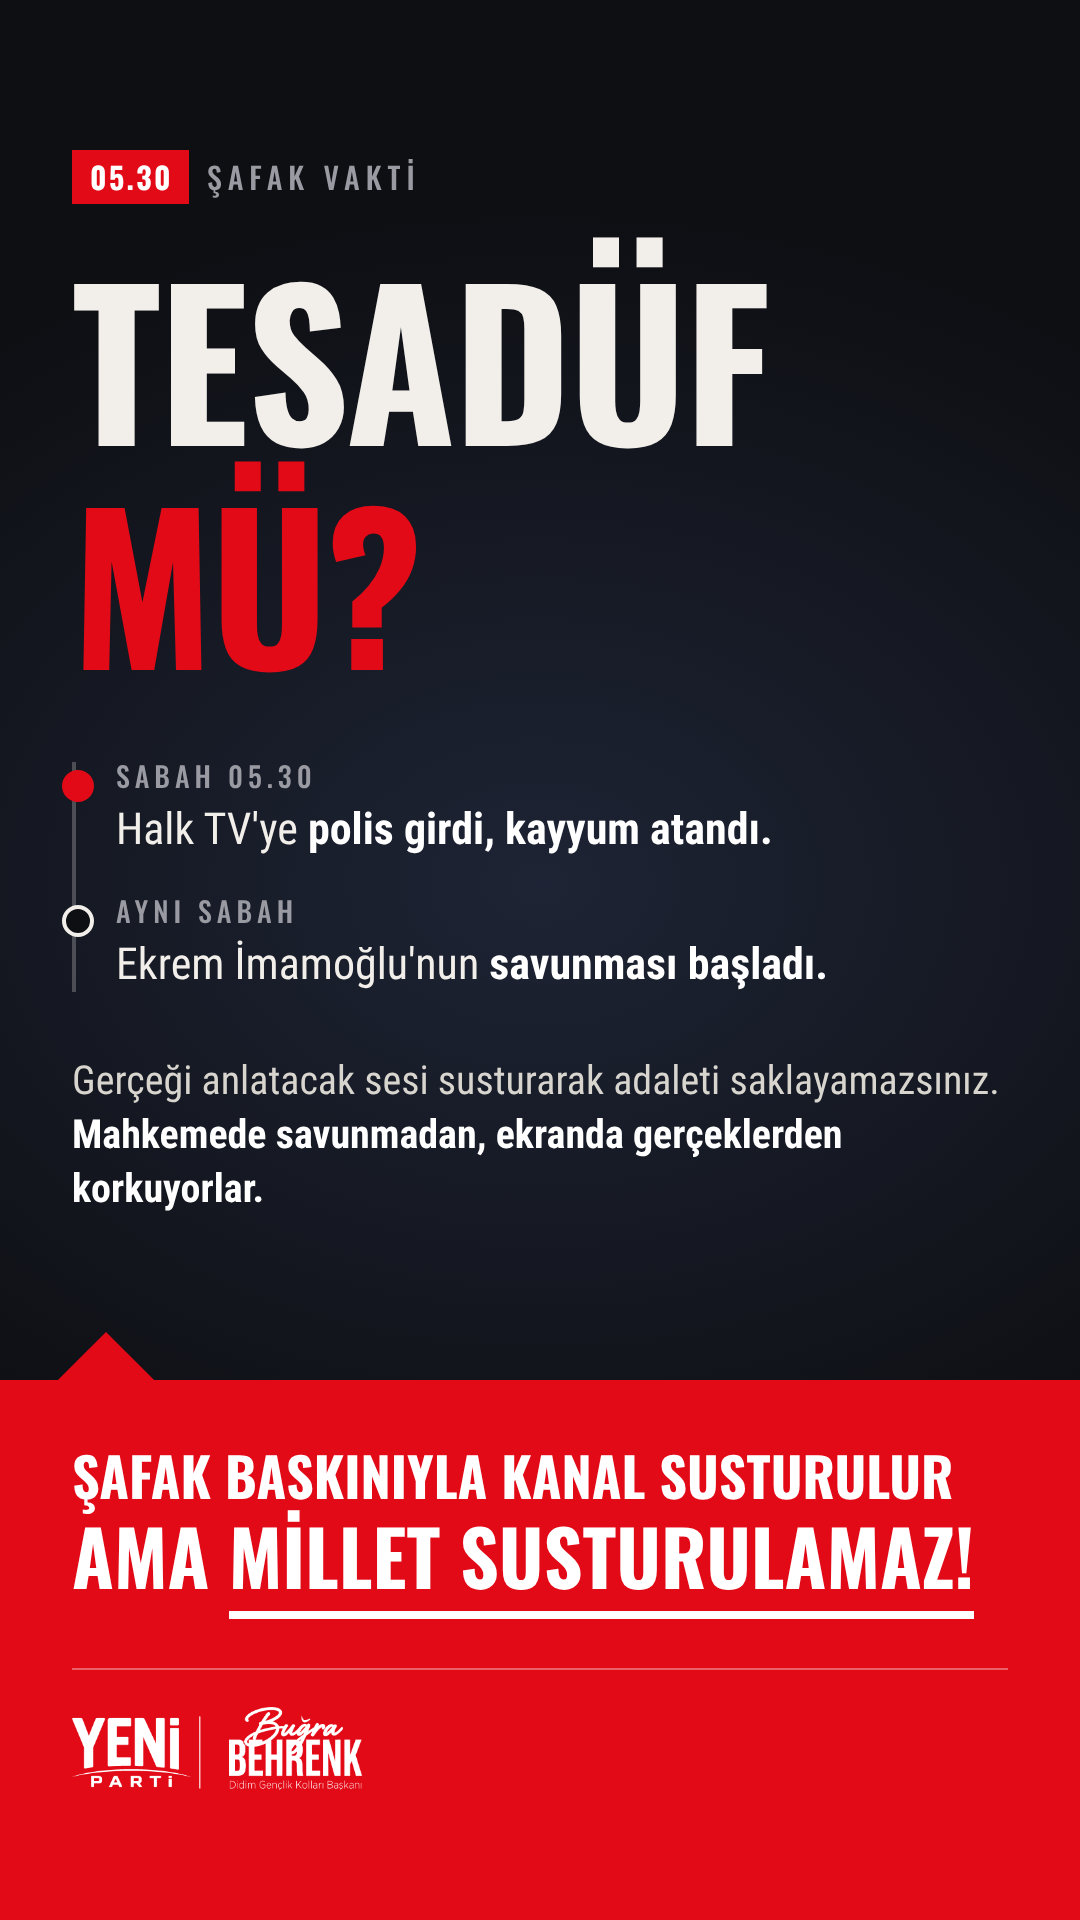
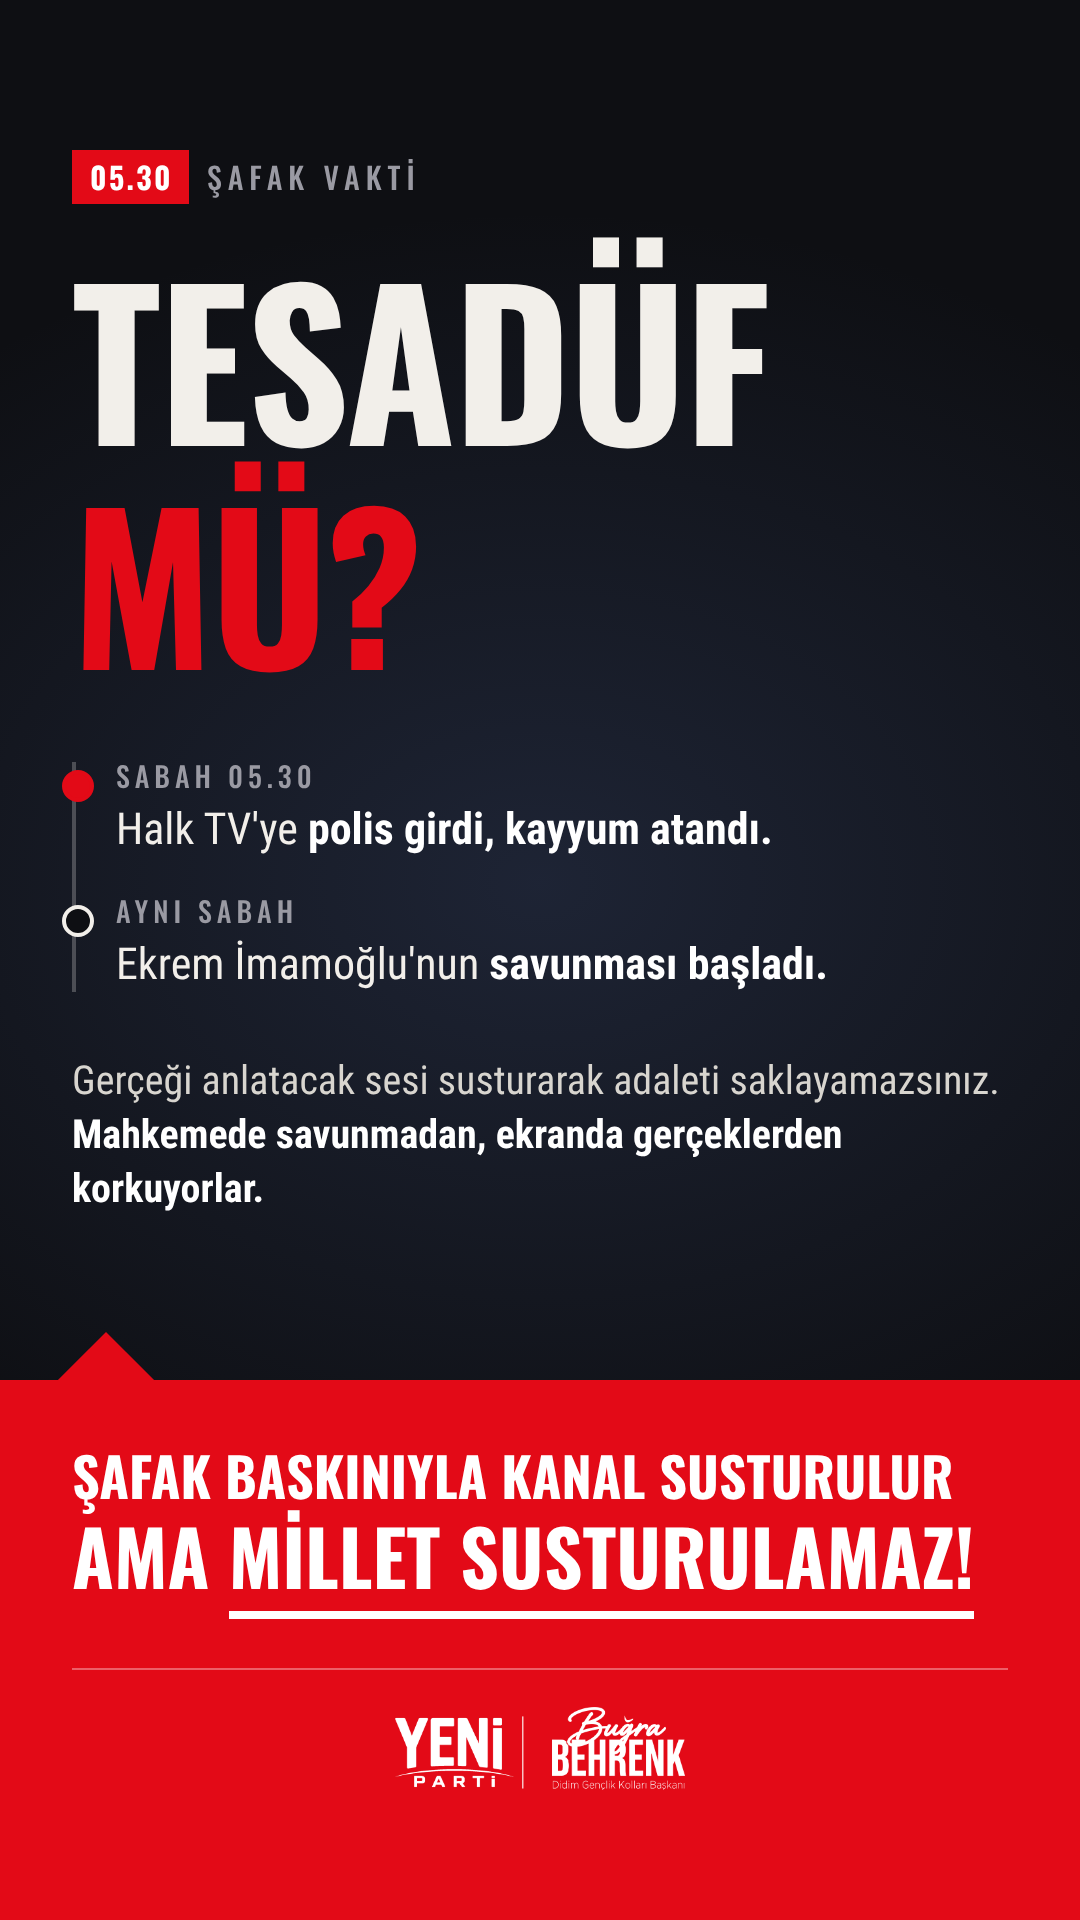
Halk TV hikâyesi: imza ortalandı
Claude-Session: https://claude.ai/code/session_01SatttGbgBLoCnk9KGLypWv

Changed region(s): [[0.3667, 0.875, 0.6417, 0.9375], [0.2139, 0.875, 0.3361, 0.9375], [0.0611, 0.875, 0.1833, 0.9375]]

diff --git a/tasarim/kisisel/halktv/halktv-story.html b/tasarim/kisisel/halktv/halktv-story.html
@@ -37,7 +37,7 @@ body::before{content:"";position:absolute;inset:0;
 .final .b2{margin-top:10px;font:76px/1.05 Afis;white-space:nowrap;text-transform:uppercase;color:#fff}
 .final .b2 u{text-decoration:none;border-bottom:8px solid #fff}
 .final .cizgi{position:absolute;left:72px;right:72px;bottom:250px;height:2px;background:rgba(255,255,255,.35)}
-.imza{position:absolute;left:72px;bottom:130px;width:290px}
+.imza{position:absolute;left:50%;bottom:130px;width:290px;transform:translateX(-50%)}
 </style>
 <body>
 <div class="ust">
